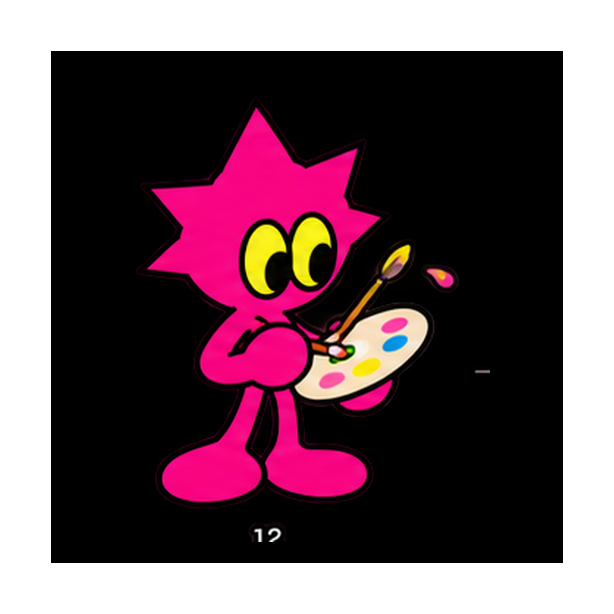
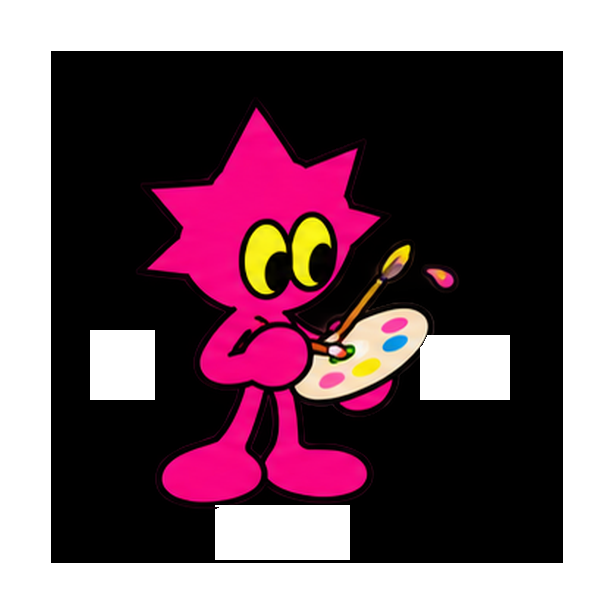
Films no longer die waiting for a viewer that has not reached their beat.
The browser only sends its WebRTC offer when the film beat plays, but
the cinema session gave up after 20s — before any earlier beats could
finish — so the offer hit a torn-down stream (409) and the turn
collapsed mid-play. The viewer window now covers the longest possible
beat queue, connecting to Director is bounded, and a failed anchor
upload no longer kills the film.

Sloppy plans degrade instead of dying: visual beats without a drawable
subject keep the current screen, video without described motion
becomes a still, and anything after an invitation is truncated rather
than rejected — spare films were already routed to stills downstream.

On the glass, a dead film now falls back to face + captions instead of
stranding the question on screen, and a failed turn clears the stale
caption. Turn failures log a real traceback.

The thinking loop drops the frame where he clips the left edge, and
the frame-number watermarks burned into the exported art are erased.

Generated with [Devin](https://devin.ai)

Changed region(s): [[0.3404, 0.8046, 0.5879, 0.9283], [0.6808, 0.5261, 0.8355, 0.6498], [0.1238, 0.5261, 0.2785, 0.6498]]

diff --git a/friend/gizmo_friend/static/oddity.js b/friend/gizmo_friend/static/oddity.js
@@ -98,8 +98,8 @@ const blinkFrames = Object.fromEntries([10, 11, 12, 13].map((id) => {
 const IDLE_FRAMES = ['/static/oddity-character.png?v=char3', '/static/oddity-character-half.png?v=char3', '/static/oddity-character-closed.png?v=char3'];
 const LISTEN_FRAMES = Array.from({ length: 7 }, (_, i) => `/static/oddity-listening-0${i + 1}.png?v=listen1`);
 const LISTEN_SLOTS = [0, 0, 0, 0, 0, 0, 1, 2, 3, 4, 5, 6, 6, 6, 6, 6, 6, 6, 6, 6, 6, 6, 6, 5, 4, 3, 2, 1];
-const THINK_FRAMES = Array.from({ length: 15 }, (_, i) => `/static/oddity-thinking-${String(i + 1).padStart(2, '0')}.png?v=think1`);
-const THINK_SLOTS = [6, 7, 8, 9, 10, 11, 12, 13, 14, 14, 14, 13, 12, 11, 10, 9, 8, 7, 6];
+const THINK_FRAMES = Array.from({ length: 15 }, (_, i) => `/static/oddity-thinking-${String(i + 1).padStart(2, '0')}.png?v=think2`);
+const THINK_SLOTS = [7, 8, 9, 10, 11, 12, 13, 14, 14, 14, 13, 12, 11, 10, 9, 8, 7];
 let listenSlot = 0, listenFrame = -1, thinkSlot = 0, faceNextAt = 0, listenNextAt = 0, thinkNextAt = 0, blinkStep = 0;
 function faceImgs() {
   return document.querySelectorAll('img[src*="oddity-character"], img[src*="oddity-listening"], img[src*="oddity-thinking"]');
@@ -422,7 +422,7 @@ function handle(event) {
     case 'error':
       notice(event.message); ready = true;
       invitation?.enable();
-      if (!playing && !queue.length) status('Try that thought again.', 'idle');
+      if (!playing && !queue.length) { status('Try that thought again.', 'idle'); setCaption(); }
       break;
   }
 }
@@ -635,7 +635,17 @@ async function showScene(beat, signal) {
     $('still').hidden = true; film.removeAttribute('src');
     film.hidden = false; stage.classList.remove('scene-ending'); stage.classList.add('has-scene'); $('home').hidden = false;
     $('scene').classList.remove('scene-enter'); void $('scene').offsetWidth; $('scene').classList.add('scene-enter');
-    await attachFilm(beat, signal);
+    try {
+      await attachFilm(beat, signal);
+    } catch (error) {
+      // A dead film (late offer, expired session) must not take the turn down
+      // with it: fall back to the face and let the narration play as captions.
+      if (signal.aborted) throw error;
+      beat.film = null; beat.visual = 'face';
+      film.hidden = true; film.removeAttribute('src'); film.load();
+      stage.classList.remove('has-scene'); $('home').hidden = true;
+      beat.warnings = [...(beat.warnings || []), 'The film could not be received.'];
+    }
     return;
   }
   if (beat.image) {
@@ -712,7 +722,7 @@ async function playQueue() {
       if (beat.interaction) { invite(beat); return; }
     }
   } catch (error) {
-    if (!signal.aborted) { notice(error.message || 'This scene could not be played. Try again.'); send({type:'interrupt'}); queue = []; ready = true; }
+    if (!signal.aborted) { notice(error.message || 'This scene could not be played. Try again.'); send({type:'interrupt'}); queue = []; ready = true; setCaption(); }
   } finally {
     if (controller === ownController && turn === localTurn) {
       playing = false; clearInterval(progressTimer);

diff --git a/friend/gizmo_friend/static/oddity.html b/friend/gizmo_friend/static/oddity.html
@@ -46,7 +46,7 @@
       document.documentElement.classList.add('oddity-locked');
     }
   </script>
-  <script type="module" src="/static/oddity.js?v=gate60"></script>
+  <script type="module" src="/static/oddity.js?v=gate61"></script>
 </head>
 <body>
   <header class="masthead">

diff --git a/friend/gizmo_friend/oddity/director.py b/friend/gizmo_friend/oddity/director.py
@@ -33,10 +33,13 @@ class Beat(BaseModel):
 
     @model_validator(mode="after")
     def coherent(self):
+        # Sloppy plans degrade, they do not kill the turn: a visual beat with no
+        # drawable subject keeps the current screen, and video without a described
+        # change is only a still.
         if self.visual in {"image", "diagram", "video", "film"} and not self.subject.strip():
-            raise ValueError("A new visual needs a concrete subject")
+            self.visual = "keep"
         if self.visual == "video" and not self.motion.strip():
-            raise ValueError("Video needs a meaningful change to depict")
+            self.visual = "image"
         if not self.narration.strip() and self.visual in {"face", "keep"}:
             raise ValueError("An empty beat does not advance the experience")
         if self.visual == "orbit" and (not self.interaction or self.interaction.kind != "orbit"):
@@ -55,10 +58,11 @@ class Experience(BaseModel):
 
     @model_validator(mode="after")
     def bounded(self):
-        if sum(b.visual in {"video", "film"} for b in self.beats) > 1:
-            raise ValueError("At most one film in a turn")
-        if any(b.interaction for b in self.beats[:-1]):
-            raise ValueError("Stop planning at the invitation; the answer determines what happens next")
+        # Extra film asks are routed down to stills by route_moving_picture, and
+        # anything planned after an invitation can never play: drop it.
+        invited = next((i for i, b in enumerate(self.beats) if b.interaction), None)
+        if invited is not None:
+            self.beats = self.beats[:invited + 1]
         return self
 
 

diff --git a/friend/tests/test_oddity.py b/friend/tests/test_oddity.py
@@ -199,10 +199,17 @@ class OddityTests(unittest.IsolatedAsyncioTestCase):
         self.session.revisit(None)
         self.assertIsNone(self.session.current["screen"])
 
-    def test_plan_rejects_incoherent_media(self):
-        with self.assertRaises(ValidationError): Beat(narration="Hi", visual="video", purpose="Missing brief")
-        with self.assertRaises(ValidationError): Beat(narration="Hi", visual="film", purpose="Missing brief")
-        with self.assertRaises(ValidationError): Experience(title="Too many films", beats=[beat("video"), beat("film")])
+    def test_plan_degrades_incoherent_media(self):
+        # A visual beat with no drawable subject keeps the current screen
+        # instead of rejecting the whole plan.
+        self.assertEqual(Beat(narration="Hi", visual="video", purpose="Missing brief").visual, "keep")
+        self.assertEqual(Beat(narration="Hi", visual="film", purpose="Missing brief").visual, "keep")
+        # Multiple film asks stay routable: the first becomes film, the rest stills.
+        plan = Experience(title="Too many films", beats=[beat("video"), beat("film")])
+        routed = route_moving_picture(plan, "What if I fell into Jupiter?")
+        self.assertEqual([b.visual for b in routed.beats], ["film", "image"])
+        # A beat carrying nothing at all is still rejected.
+        with self.assertRaises(ValidationError): Beat(narration="", visual="face", purpose="Empty")
 
     def test_runtime_does_not_call_clip_provider(self):
         import inspect

diff --git a/friend/gizmo_friend/cinema/runtime.py b/friend/gizmo_friend/cinema/runtime.py
@@ -157,11 +157,14 @@ class CinemaSession:
                     "narration": plan.narration,
                 }
             )
-            await opening
+            async with asyncio.timeout(30):
+                await opening
             self.mark("director_peer")
             if not self.current(revision):
                 return
-            async with asyncio.timeout(20):
+            # The browser only sends its offer once the film beat actually plays,
+            # after any earlier beats in the turn — that can be minutes.
+            async with asyncio.timeout(180):
                 await self.viewer.wait()
             self.mark("viewer")
             if not self.current(revision):
@@ -179,8 +182,11 @@ class CinemaSession:
                 "audio_url": audio_url,
             }
             if image_upload is not None:
-                async with asyncio.timeout(10):
-                    image_url = await image_upload
+                try:
+                    async with asyncio.timeout(10):
+                        image_url = await image_upload
+                except Exception:  # noqa: BLE001 - a missing anchor must not kill the film
+                    image_url = None
                 if image_url:
                     configuration["image_url"] = image_url
             if not self.current(revision):

diff --git a/friend/tests/test_oddity_interactions.py b/friend/tests/test_oddity_interactions.py
@@ -53,7 +53,8 @@ class InteractionTests(unittest.IsolatedAsyncioTestCase):
     async def test_reply_invitation_rejects_unseen_reveal_and_answers_by_voice(self):
         invitation = Beat(narration='What do you think?', visual='face', purpose='Predict',
             interaction=Interaction(kind='reply', prompt='Which way?'))
-        with self.assertRaises(ValidationError): Experience(title='Spoiler', beats=[invitation, self.director.beats[0]])
+        # Anything planned after an invitation can never play; the plan is truncated there.
+        self.assertEqual(len(Experience(title='Spoiler', beats=[invitation, self.director.beats[0]]).beats), 1)
         self.director.beats = [invitation]
         ack = await self.present()
         await self.session.playback({**ack, 'phase':'finished'})

diff --git a/friend/gizmo_friend/oddity/runtime.py b/friend/gizmo_friend/oddity/runtime.py
@@ -262,7 +262,8 @@ class ExperienceSession:
         except asyncio.CancelledError:
             raise
         except Exception as error:  # noqa: BLE001 - turn failures stay on the glass
-            logger.warning("Oddity experience failed: %s code=%s", type(error).__name__, getattr(error, "code", None))
+            logger.warning("Oddity experience failed: %s code=%s", type(error).__name__, getattr(error, "code", None),
+                           exc_info=True)
             await self.event("error", turn, message="That thought didn't come through. Try again in a moment.")
 
     async def playback(self, message: dict):
